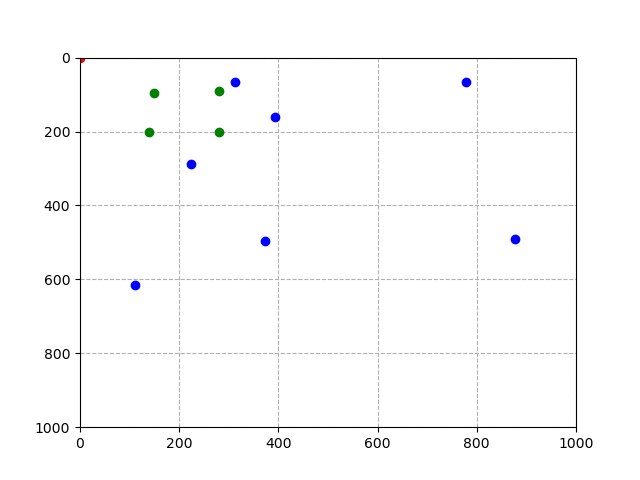
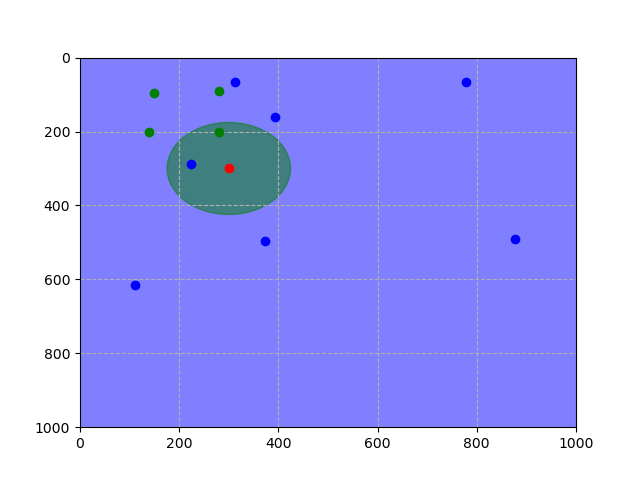
fix

diff --git a/static/index.html b/static/index.html
@@ -19,6 +19,6 @@
         </style>
     </head>
     <body>
-        <img src="plotaps.png" name="circles" onload="refreshIt(this)">
+        <img src="plotaps.png" name="circles" onload="">
     </body>
 </html>

diff --git a/server.py b/server.py
@@ -1,5 +1,5 @@
 from flask import Flask, request
-from list_wifi_distances import center_of_gravity, Circle, DIST_MULTIPLIER
+from list_wifi_distances import center_of_gravity, Circle, DIST_MULTIPLIER, colors
 from my_trilateration import get_trilateration_point
 import matplotlib
 import matplotlib.pyplot as plt
@@ -22,17 +22,20 @@ class AP:
         self.threat_type = threat_type
         self.distance = distance
 
+    def __repr__(self):
+        return f"{self.bssid}: {self.position}, {self.distance}"
+
     def color(self):
         return self.type_to_color[self.threat_type]
 
 def get_circles():
     circles = []
     for ap in aps:
-        print(ap.distance)
+        print(ap)
         if ap.distance > 0.0:
-            print(ap)
             circles.append(Circle(ap.position[0], ap.position[1], ap.distance * DIST_MULTIPLIER))
     print(len(circles))
+
     return circles
 
 def draw():
@@ -45,6 +48,10 @@ def draw():
     if aps[-1].threat_type == "rogue":
         print("threat")
         circles = get_circles()
+        i = 0
+        for circle in circles:
+            ax.add_artist(plt.Circle((circle.x, circle.y), circle.radius, color = colors[i], alpha=0.5))
+            i += 1
         center_intersections = get_trilateration_point(circles)
         if center_intersections is not None:
             centers.append(center_intersections)
@@ -68,7 +75,7 @@ def try_get(bssid):
 def add_rogue_ap(ssid, bssid):
     print(f"Added rogue AP with SSID {ssid}, BSSID {bssid}.")
     if try_get(bssid) is None:
-        aps.append(AP(ssid, bssid, (0, 0), 'rogue'))
+        aps.append(AP(ssid, bssid, (69, 69), 'rogue'))
 
 aps = [
     AP('RaspberryPi-21', 'b8:27:eb:ba:cf:95', (281, 91), 'no_threat'),

diff --git a/my_trilateration.py b/my_trilateration.py
@@ -75,7 +75,7 @@ def get_mean_location(point_list):
 
 def get_trilateration_point(circles):
     if len(circles) == 0:
-        return (0, 0)
+        return None
     p_list = calculate_intersection_points(circles)
     smallest_circle = find_smallest_circle(circles)
     res = remove_invalid_intersections(p_list,smallest_circle)

diff --git a/list_wifi_distances.py b/list_wifi_distances.py
@@ -99,6 +99,8 @@ def save_plot(circles_ls, centers):
 
 
 def center_of_gravity(circles):
+    if len(circles) == 0:
+        return (-50, -50)
     mean_x = 0.0
     mean_y = 0.0
     mass_sum = 0.0
